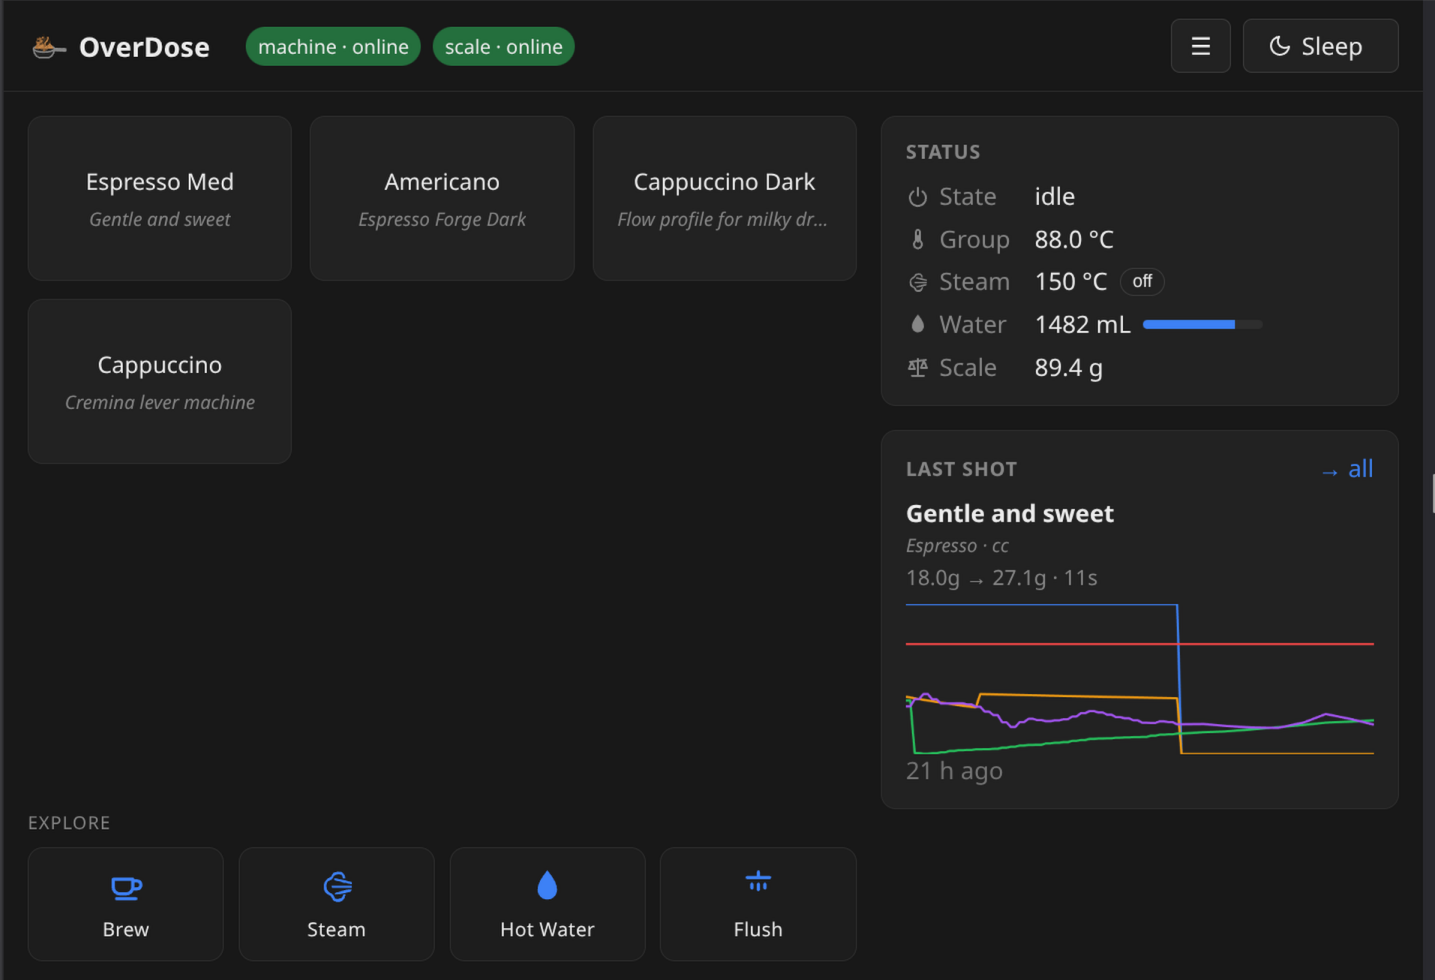
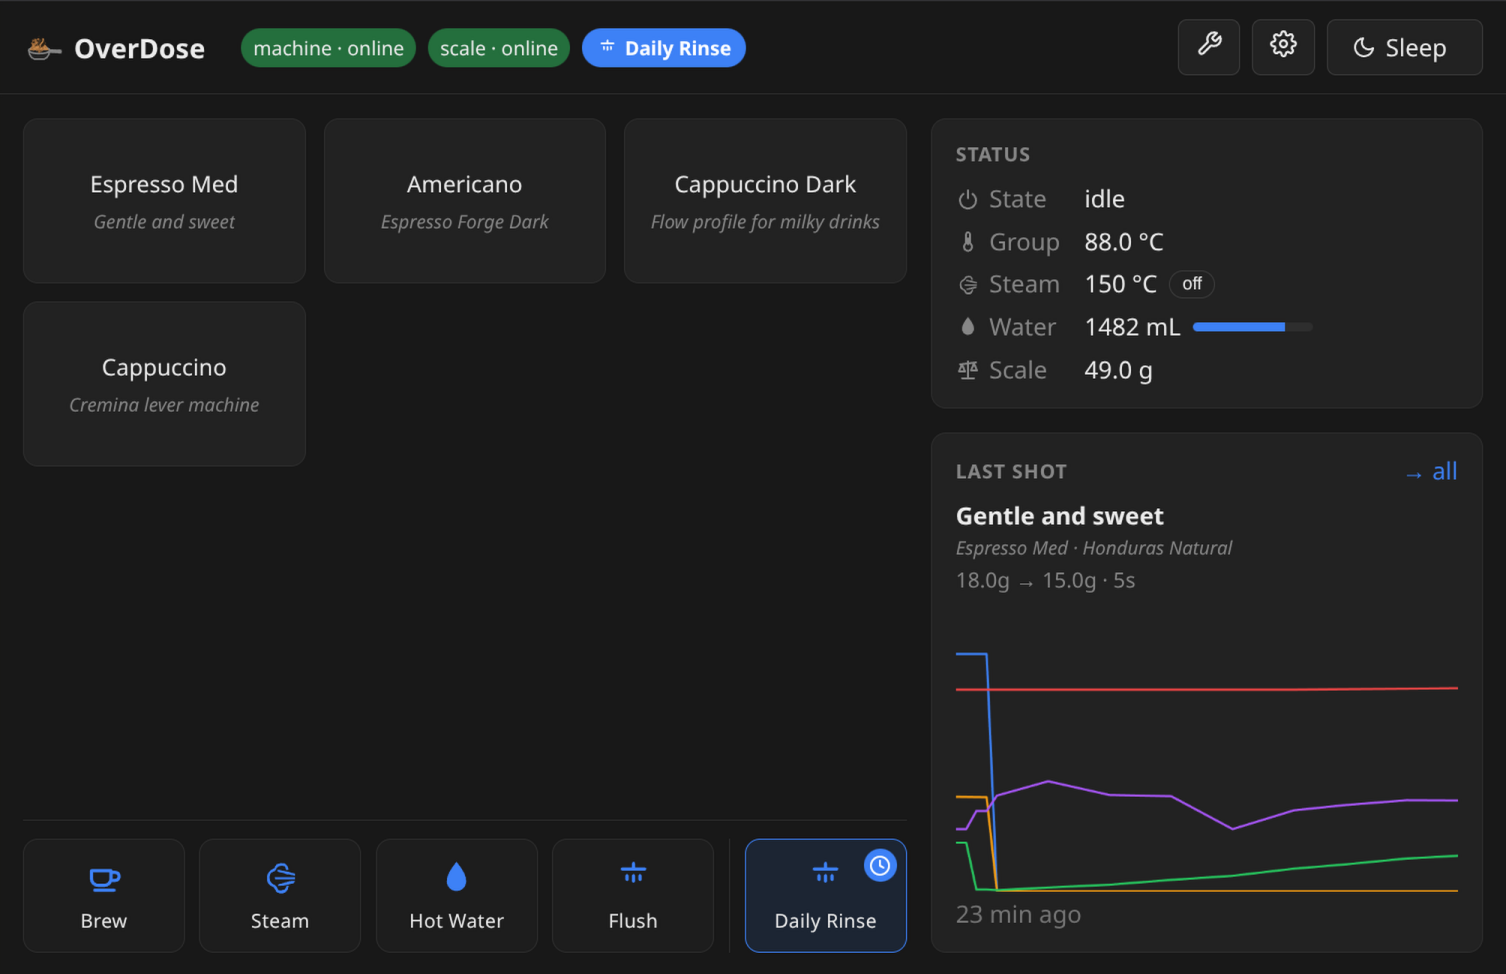
docs(readme): add Cleaning & maintenance section + screenshots
Document the cleaning feature in the README (prose + screenshots, matching
the Recipes section), add Features bullets for guided cleaning routines and
audio cues, and refresh the home screenshot.

diff --git a/README.md b/README.md
@@ -30,6 +30,8 @@ recipe-driven brewing UI, designed for the tablet on your espresso bar.
 - Auto-stop steam by time (configurable per pitcher)
 - Two-level water warnings (soft warning + machine refill level)
 - Smooth live shot view
+- Guided cleaning routines with scheduled reminders
+- Optional audio cues (machine-ready, sleep/wake, water, cleaning-due)
 - Highly configurable
 
 ## Recipes
@@ -61,6 +63,35 @@ control between phases rather than racing an auto-progressing timer.
 For ad-hoc operations that don't deserve a saved recipe — warming a
 cup, a quick steam wand purge, hot water for tea — the **Explore**
 tray on the home screen runs the four machine operations directly.
+
+## Cleaning & maintenance
+
+Keeping the machine clean is part of the daily flow too, so OverDose
+treats a cleaning like a recipe — a routine you set up once, then run
+with step-by-step guidance. The **Maintenance** screen lists them and
+flags the ones that are due.
+
+<img src="docs/screenshots/cleaning-maintenance.png" alt="Maintenance — list of cleanings to run" width="500">
+
+A routine is a sequence of steps you arrange yourself: a group-head
+forward-flush (with or without detergent), a plain flush, steam-wand
+cleaning with Rinza, a quick steam purge, the steam-tip soak, the water
+tank, the uptake thimble. Sensible defaults ship ready to use.
+
+Run one and OverDose walks each step — what chemical goes where (and
+what must never go in the tank), what to do, and a live countdown for
+each machine run. Long soaks start a background timer and chime when
+they're ready.
+
+<img src="docs/screenshots/cleaning-daily-rinse-grouphead.png" alt="Cleaning wizard — group-head forward-flush step" width="360">
+
+<img src="docs/screenshots/cleaning-daily-rinse-flash.png" alt="Cleaning wizard — flush step" width="360">
+
+<img src="docs/screenshots/cleaning-weekly-clean-steam-wand.png" alt="Cleaning wizard — steam-wand step" width="360">
+
+Give a routine a schedule — every Friday afternoon, daily, the first of
+the month — and OverDose reminds you when it's due: a pill in the header
+(with a chime) and a one-tap tile on the home screen.
 
 ## Using OverDose
 